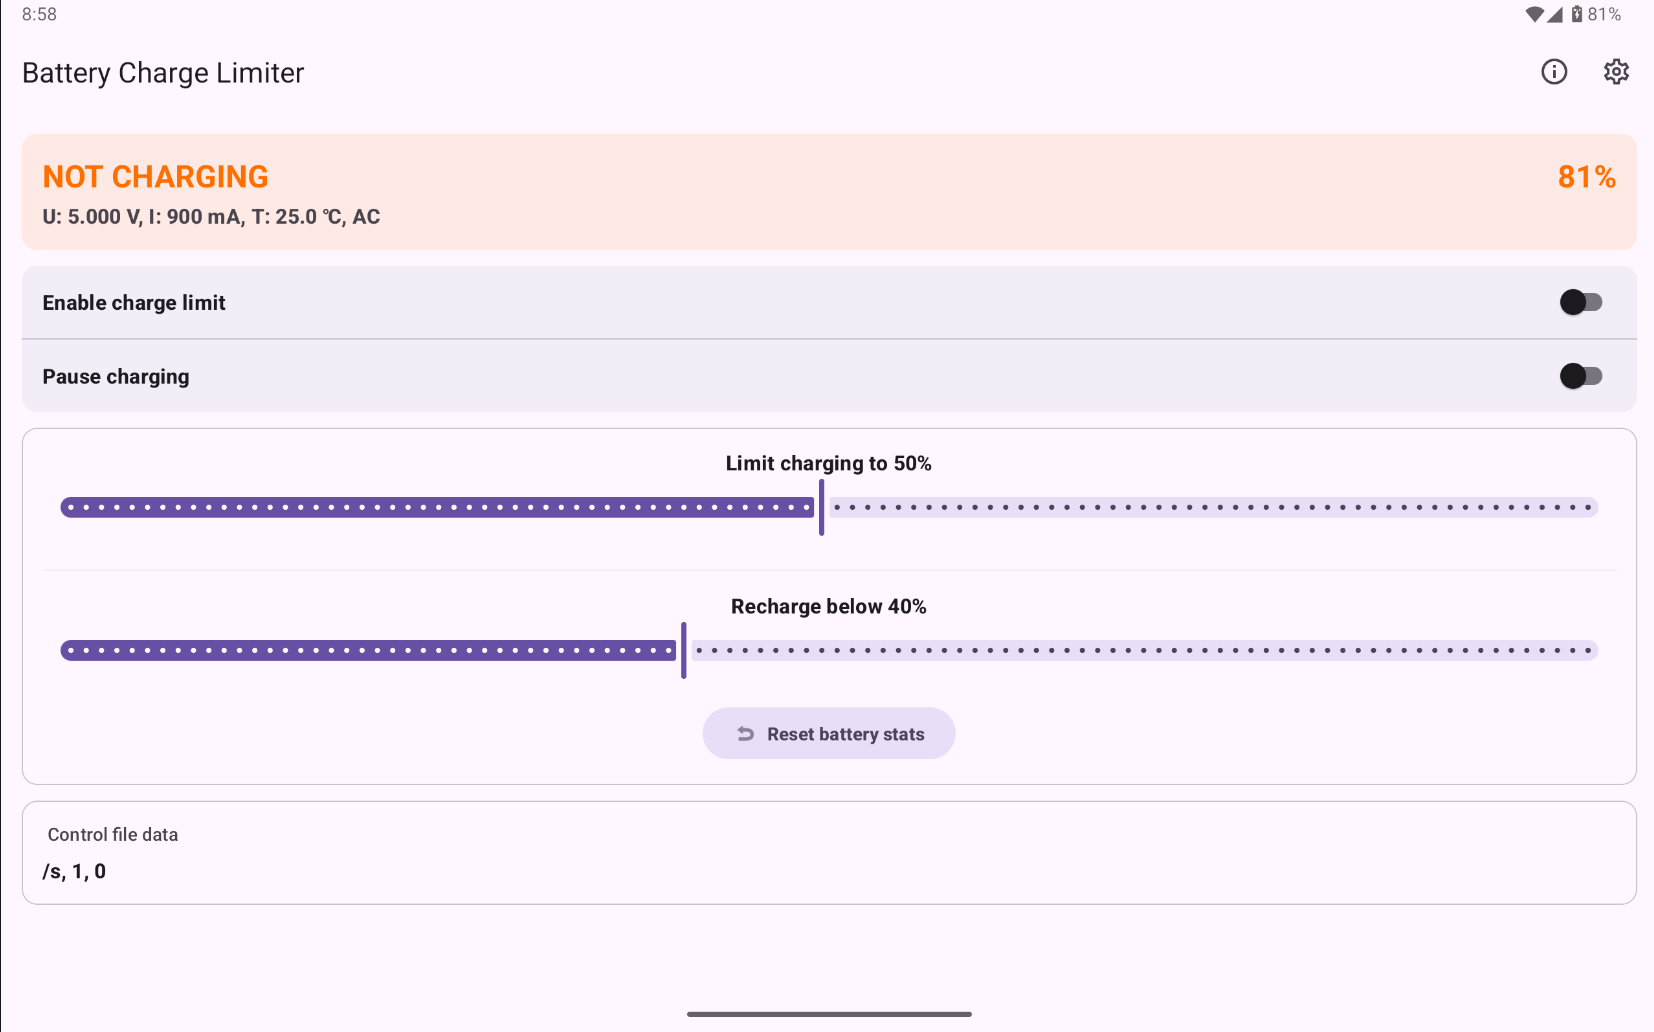
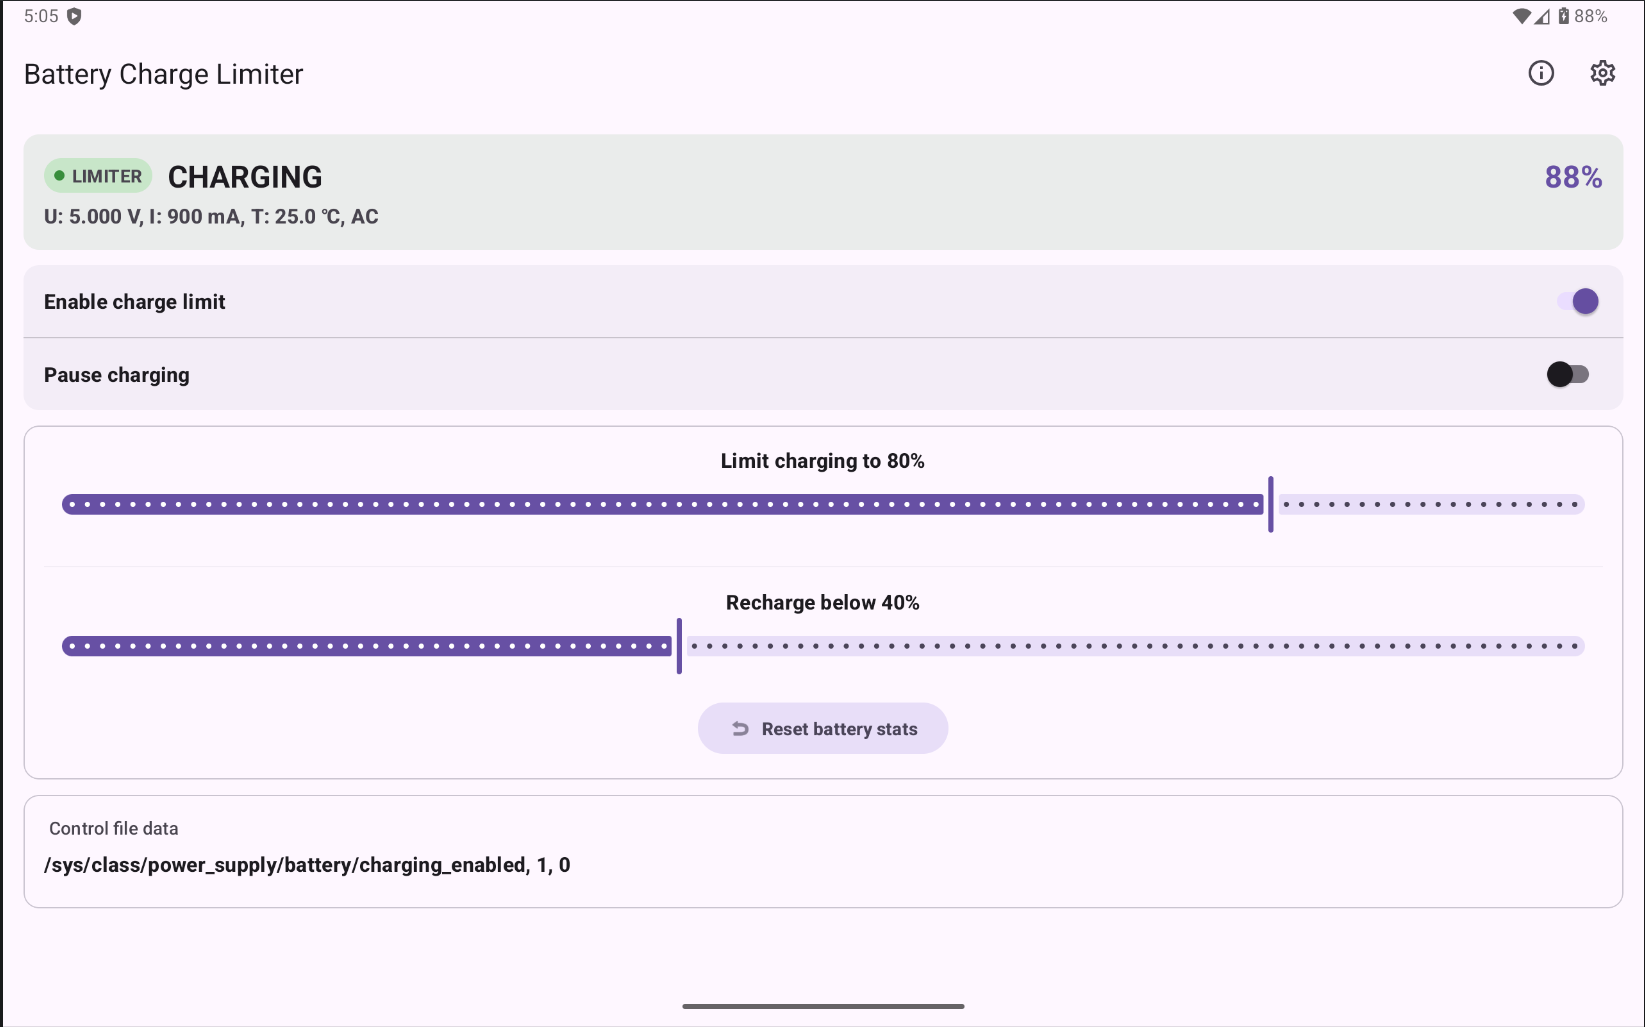
bump to 1.4.1: updated README, updated screenshots

diff --git a/README.md b/README.md
@@ -15,24 +15,37 @@ A fork of **Battery Charge Limit** whose development has been stalled for some t
 ### Features
 - **Main UX**: Updated the main dashboard to clearly show when no control file is selected.
 - **Main UX**: Added logic to prevent enabling the charge limit if no control file is currently selected.
+- **Main UX**: Redesign main screen switch logic to enforce mutual exclusivity between manual override and auto-limit modes.
+- **Main UX**: Add a visual "Limiter" badge on the main screen to show real-time service status (Active/Inactive).
+- **Main UX**: Add "Experimental" and "Known Issues" badges to the control file view in main screen for better transparency on
+- **Main UX**: Optimize Material 3 theme color resolution for the status card background.
 - **Settings UX**: Refactored the "Control file data" section for better clarity. Replaced text "Configurable CTRL file data" with a "Use custom control file".
 - **Settings UX**: The selected control file path or custom configuration is now displayed immediately upon selection.
 - **Settings UX**: Added summaries for "Theme", "Control File", and "Configure Control Data" to improve UX.
-- **Settings UX** Consistent look & feel by applying sentence case style, i.e. only first word is uppercase.
+- **Settings UX**: Consistent look & feel by applying sentence case style, i.e. only first word is uppercase.
+- **Settings UX**: Add a "Stop and Continue" confirmation dialog when changing control file configuration while the service is active.
 - **Notifications**: Modernized the notification channel for better compatibility with Android 13+.
 - **Notifications**: Notification sounds are now restricted to three key events: reaching the upper charge limit, connecting power and disconnecting power.
+- **Config**: Add control file siop_level to control_files (for Samsung)
 - **Robustness**: Added logic to prevent enabling the charge limit if no control file is currently selected.
 - **Localization**: Improved German language translations and localized new settings summaries.
+- **Localization**: Implement localized battery status strings (uppercase) for the UI while maintaining English-only logging.
 
 ### Optimizations
 - **Performance**: Improved `SharedPreferences` performance by batching writes into single `apply()` calls.
 - **Performance**: Optimized startup by moving control file validation to a background thread to prevent UI hangs.
+- **Service Persistence**: The background service now stays active even when the charger is unplugged. This ensures that the app is always ready to enforce limits the moment you plug it back in, without needing to manually restart the service.
+- **Resource Optimization**: Optimized how the app listens for power events to reduce background system load and improve battery efficiency.
+- **Improved Reliability**: Re-engineered the internal charging logic using a "state machine" to more accurately track and manage transitions between charging states, especially on devices with complex power drivers.
 
 ### Bug Fixes
 - **Fix**: Resolved "pre-filled" default value in the custom control file configuration. User must select a control file or define a custom one.
+- **Fix**: Synchronize ForegroundService state updates to prevent race conditions and duplicate "Stop" dialogs.
 
 ### Maintenance
+- **Build**: Generated APKs follow new file naming convention: battery-charge-limiter-<build-variant>.<version>.apk
 - **Documentation**: Added section in this README file that explains [Pulse Mechanism](#intelligent-charging-control-pulse-mechanism)
+- **Documentation**: Added section FOR RELEASE 1.4.1
 
 
 
